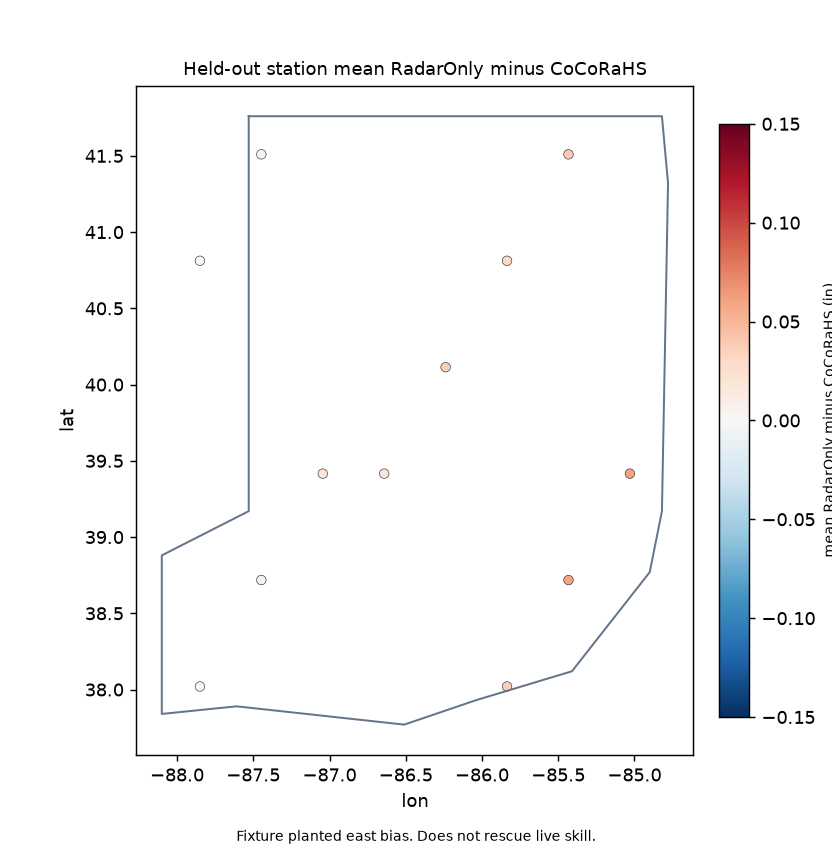
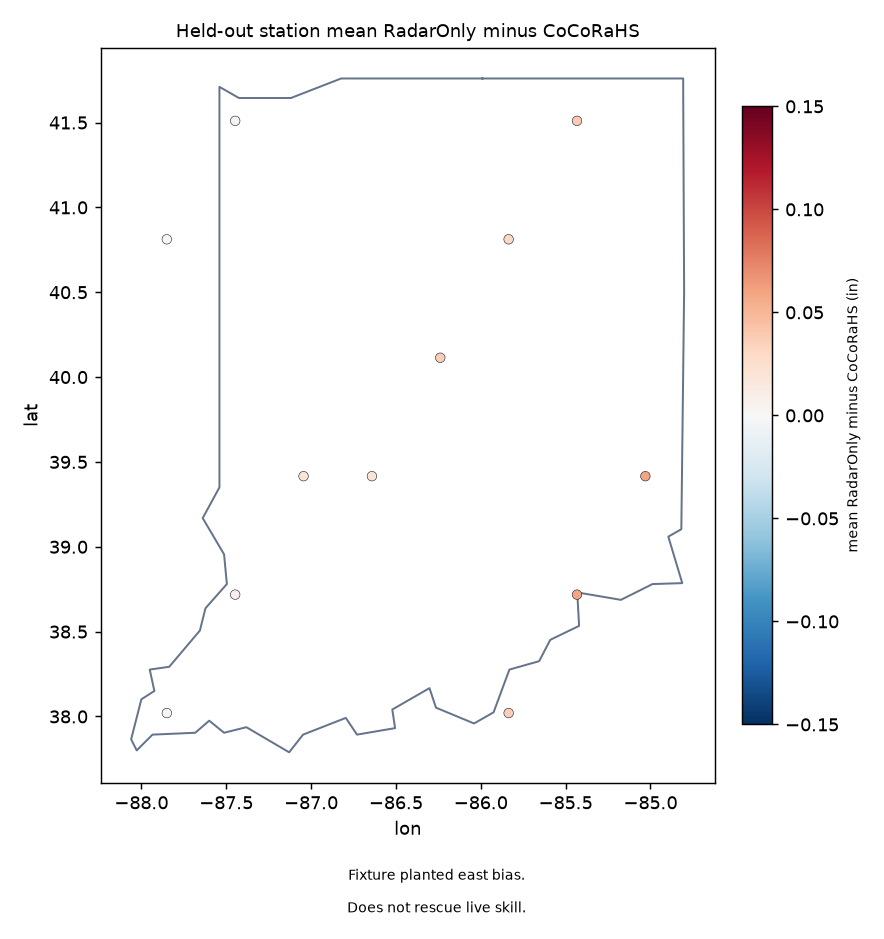
Redraw figure 2 with a full Indiana outline and axis pad.
The 14-point box chopped the Lake Michigan bite and the Ohio River.
Rebuild the live bias map from locked station JSON. Do not re-fit.

diff --git a/src/inrain/figure.py b/src/inrain/figure.py
@@ -10,6 +10,7 @@ import numpy as np
 
 from inrain.claims import require_clean
 from inrain.config import (
+    BIAS_MAP_PAD_DEG,
     FIXTURE_BIAS_SUBTITLE,
     INDIANA_RING,
     LIVE_BIAS_SUBTITLE,
@@ -84,21 +85,46 @@ def write_bias_map(dest: Path, *, fit: dict[str, Any], title: str, subtitle: str
     b = np.array([r["bias_in"] for r in rows], dtype=float)
     ring = np.asarray(INDIANA_RING, dtype=float)
     vmax = max(0.15, float(np.nanpercentile(np.abs(b), 95)))
-    fig, ax = plt.subplots(figsize=(6.4, 6.6))
+    fig, ax = plt.subplots(figsize=(6.8, 7.6))
     ax.plot(ring[:, 0], ring[:, 1], color="#64748b", lw=1.1)
-    sc = ax.scatter(lon, lat, c=b, cmap="RdBu_r", vmin=-vmax, vmax=vmax, s=28, edgecolors="#0f172a", linewidths=0.3)
+    sc = ax.scatter(
+        lon,
+        lat,
+        c=b,
+        cmap="RdBu_r",
+        vmin=-vmax,
+        vmax=vmax,
+        s=28,
+        edgecolors="#0f172a",
+        linewidths=0.3,
+        zorder=3,
+        clip_on=True,
+    )
+    pad = BIAS_MAP_PAD_DEG
+    ax.set_xlim(float(ring[:, 0].min()) - pad, float(ring[:, 0].max()) + pad)
+    ax.set_ylim(float(ring[:, 1].min()) - pad, float(ring[:, 1].max()) + pad)
+    ax.set_aspect("equal", adjustable="box")
     cb = fig.colorbar(sc, ax=ax, fraction=0.046, pad=0.04)
     cb.set_label("mean RadarOnly minus CoCoRaHS (in)", fontsize=8)
     ax.set_xlabel("lon")
     ax.set_ylabel("lat")
     ax.set_title(title, fontsize=10)
-    ax.set_aspect("equal", adjustable="box")
-    fig.text(0.5, 0.02, subtitle, ha="center", fontsize=8)
-    fig.subplots_adjust(bottom=0.12, top=0.90)
     dest.parent.mkdir(parents=True, exist_ok=True)
-    fig.savefig(dest, dpi=130)
+    _caption(fig, subtitle)
+    fig.savefig(dest, dpi=130, bbox_inches="tight", pad_inches=0.18)
     plt.close(fig)
     return dest
+
+
+def _caption(fig, subtitle: str) -> None:
+    lines = [ln.strip() for ln in subtitle.split(". ") if ln.strip()]
+    if len(lines) >= 2:
+        fig.text(0.5, 0.055, lines[0].rstrip(".") + ".", ha="center", fontsize=8)
+        fig.text(0.5, 0.022, ". ".join(lines[1:]), ha="center", fontsize=7.5)
+        fig.subplots_adjust(bottom=0.12, top=0.93, left=0.12, right=0.88)
+    else:
+        fig.text(0.5, 0.03, subtitle, ha="center", fontsize=8)
+        fig.subplots_adjust(bottom=0.10, top=0.93, left=0.12, right=0.88)
 
 
 def scatter_subtitle(fit: dict[str, Any], *, live: bool) -> str:

diff --git a/tests/test_figure_caption.py b/tests/test_figure_caption.py
@@ -1,7 +1,14 @@
 # Copyright (c) 2026 Martial Systems LLC
 
-from inrain.config import LIVE_BIAS_SUBTITLE, LOCKED_LIVE_COMMIT
-from inrain.figure import scatter_subtitle
+import json
+from pathlib import Path
+
+from matplotlib.path import Path as MplPath
+
+from inrain.config import BIAS_MAP_PAD_DEG, INDIANA_RING, LIVE_BIAS_SUBTITLE, LOCKED_LIVE_COMMIT
+from inrain.figure import scatter_subtitle, write_bias_map
+
+REPO = Path(__file__).resolve().parents[1]
 
 
 def test_live_captions_name_radar_and_clock() -> None:
@@ -24,3 +31,42 @@ def test_live_captions_name_radar_and_clock() -> None:
     assert sep
     assert "0.133" in first
     assert "12Z" in rest
+
+
+def test_live_stations_sit_inside_padded_indiana() -> None:
+    report = json.loads((REPO / "logs" / "in_live" / "stage_c_report.json").read_text(encoding="utf-8"))
+    ring = MplPath(INDIANA_RING)
+    pts = [(row["lon"], row["lat"]) for row in report["station_bias"]]
+    inside = ring.contains_points(pts)
+    assert inside.all()
+    lons = [p[0] for p in INDIANA_RING]
+    lats = [p[1] for p in INDIANA_RING]
+    assert min(lons) < -87.9 and max(lons) > -85.0
+    assert min(lats) < 37.85 and max(lats) > 41.7
+    pad = BIAS_MAP_PAD_DEG
+    for lon, lat in pts:
+        assert min(lons) - pad < lon < max(lons) + pad
+        assert min(lats) - pad < lat < max(lats) + pad
+
+
+def test_bias_map_keeps_margins(tmp_path: Path) -> None:
+    report = json.loads((REPO / "logs" / "in_live" / "stage_c_report.json").read_text(encoding="utf-8"))
+    dest = tmp_path / "bias_map.png"
+    write_bias_map(
+        dest,
+        fit={"station_bias": report["station_bias"]},
+        title="Held-out station mean RadarOnly minus CoCoRaHS",
+        subtitle=LIVE_BIAS_SUBTITLE,
+    )
+    from PIL import Image
+
+    im = Image.open(dest)
+    w, h = im.size
+    assert w >= 700 and h >= 800
+    # Footer caption lives in the bottom strip; it must not be empty white-only
+    # at the cost of clipping the state (old crop restamp).
+    arr = __import__("numpy").asarray(im.convert("L"))
+    bottom = arr[-40:]
+    top = arr[:40]
+    assert float(bottom.mean()) > 240
+    assert float(top.mean()) > 230

diff --git a/src/inrain/config.py b/src/inrain/config.py
@@ -48,23 +48,57 @@ RADARS = (
     ("KLOT", 41.6044, -88.0847),
     ("KLVX", 37.9753, -85.9439),
 )
-# Simplified Indiana ring for the bias map. Residual, not a political boundary product.
+# Cartographic sketch of Indiana (46 verts). Residual map only, not a legal boundary.
+# Lake Michigan bite is in the northwest; Ohio River is the south.
 INDIANA_RING = (
-    (-87.53, 41.76),
-    (-84.82, 41.76),
-    (-84.78, 41.32),
-    (-84.82, 39.17),
-    (-84.90, 38.77),
-    (-85.41, 38.12),
-    (-86.04, 37.93),
-    (-86.51, 37.77),
-    (-87.61, 37.89),
-    (-88.10, 37.84),
-    (-88.10, 38.88),
-    (-87.53, 39.17),
-    (-87.53, 41.27),
-    (-87.53, 41.76),
+    (-85.9901, 41.7597),
+    (-84.8070, 41.7597),
+    (-84.8070, 41.6940),
+    (-84.8016, 40.5000),
+    (-84.8180, 39.1034),
+    (-84.8947, 39.0596),
+    (-84.8125, 38.7857),
+    (-84.9878, 38.7803),
+    (-85.1740, 38.6872),
+    (-85.4314, 38.7310),
+    (-85.4205, 38.5338),
+    (-85.5902, 38.4517),
+    (-85.6560, 38.3257),
+    (-85.8312, 38.2764),
+    (-85.9243, 38.0245),
+    (-86.0394, 37.9587),
+    (-86.2639, 38.0518),
+    (-86.3022, 38.1669),
+    (-86.5213, 38.0409),
+    (-86.5049, 37.9313),
+    (-86.7294, 37.8930),
+    (-86.7952, 37.9916),
+    (-87.0471, 37.8930),
+    (-87.1293, 37.7889),
+    (-87.3812, 37.9368),
+    (-87.5127, 37.9040),
+    (-87.6003, 37.9752),
+    (-87.6824, 37.9040),
+    (-87.9344, 37.8930),
+    (-88.0275, 37.7999),
+    (-88.0603, 37.8656),
+    (-88.0001, 38.1011),
+    (-87.9234, 38.1504),
+    (-87.9508, 38.2764),
+    (-87.8358, 38.2928),
+    (-87.6551, 38.5064),
+    (-87.6222, 38.6379),
+    (-87.4962, 38.7803),
+    (-87.5127, 38.9555),
+    (-87.6386, 39.1691),
+    (-87.5400, 39.3499),
+    (-87.5400, 41.7104),
+    (-87.4250, 41.6447),
+    (-87.1183, 41.6447),
+    (-86.8226, 41.7597),
+    (-85.9901, 41.7597),
 )
+BIAS_MAP_PAD_DEG = 0.18
 FEATURE_NAMES = (
     "mrms_in",
     "mrms_nbhd_in",

diff --git a/scripts/restamp_captions.py b/scripts/restamp_captions.py
@@ -12,26 +12,18 @@ REPO = Path(__file__).resolve().parents[1]
 sys.path[:0] = [str(REPO), str(REPO / "src")]
 
 from inrain.config import LIVE_BIAS_SUBTITLE  # noqa: E402
-from inrain.figure import restamp_footer, scatter_subtitle  # noqa: E402
+from inrain.figure import write_bias_map  # noqa: E402
 
 
 def main() -> int:
     log_dir = Path(sys.argv[1]) if len(sys.argv) > 1 else REPO / "logs" / "in_live"
     report = json.loads((log_dir / "stage_c_report.json").read_text(encoding="utf-8"))
-    scatter_sub = scatter_subtitle(report, live=True)
-    restamp_footer(
-        log_dir / "scatter.png",
-        subtitle=scatter_sub,
-        figsize=(8.2, 4.2),
-        crop_top=0.88,
-    )
-    restamp_footer(
+    write_bias_map(
         log_dir / "bias_map.png",
+        fit={"station_bias": report["station_bias"]},
+        title="Held-out station mean RadarOnly minus CoCoRaHS",
         subtitle=LIVE_BIAS_SUBTITLE,
-        figsize=(6.4, 6.6),
-        crop_top=0.935,
     )
-    print(scatter_sub)
     print(LIVE_BIAS_SUBTITLE)
     return 0
 

diff --git a/METHODOLOGY.md b/METHODOLOGY.md
@@ -42,7 +42,7 @@ Live holdout at `ac36f0f`: 177 stations, 19189 rows. RadarOnly RMSE 0.133, MAE 0
 ## Figures
 
 1. Holdout scatter: CoCoRaHS vs RadarOnly and vs HGB. Caption: RadarOnly vs HGB RMSE, plus 12Z 24h vs 7am local and volunteer QC.
-2. Bias map: mean (RadarOnly minus CoCoRaHS) at held-out stations only. Residual, not water. Same 12Z / QC caption.
+2. Bias map: mean (RadarOnly minus CoCoRaHS) at held-out stations only. Residual, not water. Indiana outline is a 46-vertex sketch (Lake Michigan bite, Ohio River). Same 12Z / QC caption. Pad the axes so the state is not clipped.
 
 ## Claims
 
